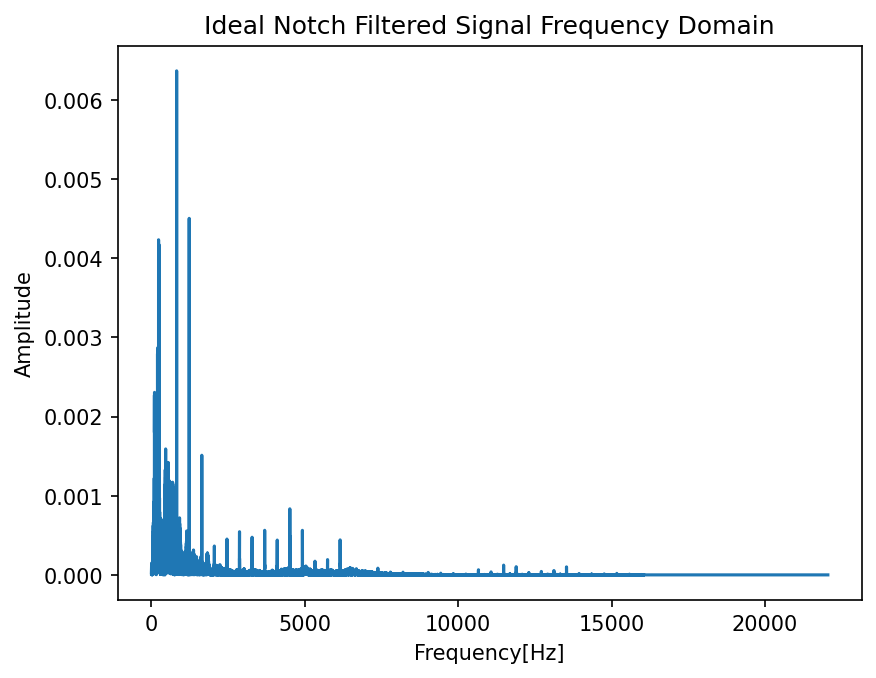
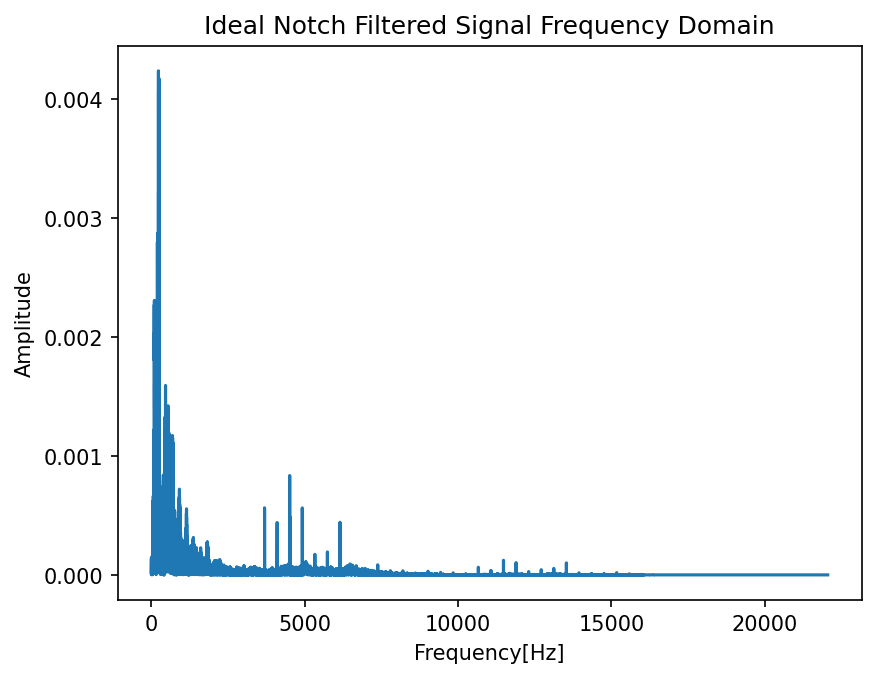
removed harmonics

diff --git a/signals_project.py b/signals_project.py
@@ -62,14 +62,17 @@ plt.legend()
 save_and_show()
 
 # ideal notch filter
-def ideal_notch_filter(signal, notch_freq, sampling_freq, bandwidth=10):
+def ideal_notch_filter(signal, notch_freq, sampling_freq, bandwidth=10, num_harmonics=1): # add harmonics as optional
     N = len(signal)
     fft_signal = rfft(signal)
     freqs = rfftfreq(N, 1.0/sampling_freq)
     
     # zero out bins within bandwidth around notch frequency
-    mask = (freqs >= notch_freq - bandwidth/2) & (freqs <= notch_freq + bandwidth/2)
-    fft_signal[mask] = 0
+    for i in range(1, num_harmonics + 1):
+        harmonic = notch_freq * i
+        mask = (freqs >= harmonic - bandwidth/2) & (freqs <= harmonic + bandwidth/2)
+        fft_signal[mask] = 0
+        print(f"Zeroed harmonic {i}: {harmonic:.2f} Hz")
     
     # inverse FFT to get back time domain signal
     filtered_signal = np.real(irfft(fft_signal, n=N))
@@ -99,11 +102,9 @@ def plot_ideal_notch_response(notch_freq, sampling_freq, bandwidth=10):
     save_and_show()
 
 
-plot_ideal_notch_response(notch_freq=peak_freq, sampling_freq=44100, bandwidth=60)
+plot_ideal_notch_response(notch_freq=peak_freq, sampling_freq=44100, bandwidth=20)
 
-
-notch_signal=ideal_notch_filter(signal_mp3,notch_freq=peak_freq,sampling_freq=Fs, bandwidth=60)
-
+notch_signal = ideal_notch_filter(signal_mp3, notch_freq=peak_freq, sampling_freq=Fs, bandwidth=20, num_harmonics=8)
 
 plt.plot(notch_signal, 'b')
 plt.title('Ideal Notch Filtered Signal Time Domain')